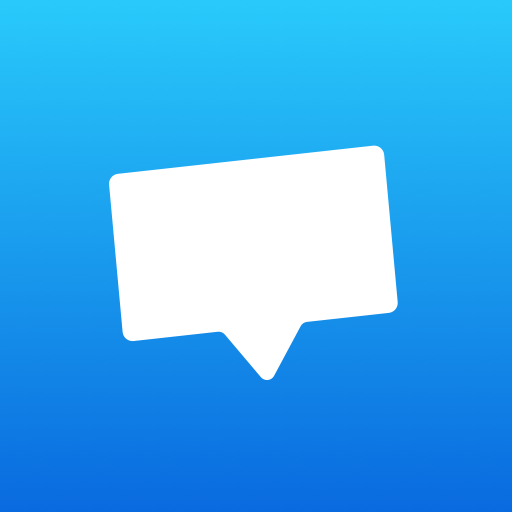
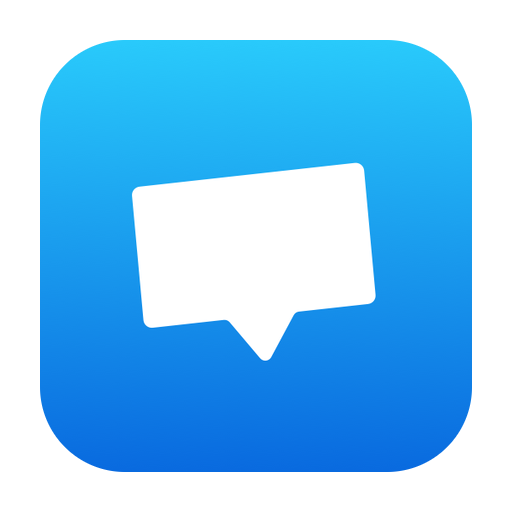
Release Crisp JALA 0.2.0 with setup workflow

diff --git a/crisp-jala/README.md b/crisp-jala/README.md
@@ -1,32 +1,37 @@
 # Crisp JALA
 
-Version 0.1.0. Skills for JALA customer support through the Crisp REST API,
+Version 0.2.0. Skills for JALA customer support through the Crisp REST API,
 packaged for Codex and Claude Code.
 
 ## Included skills
 
 - `crisp-jala`: JALA workspace routing and JALA-only saved credentials.
+- `crisp-jala-setup`: first-time connection setup and recovery for missing or
+  expired sessions.
 - `crisp`: API workflow and references for conversations, messages, people,
   visitors, workspace settings, campaign templates, and analytics.
 
-Both skills are bundled; no separate base-skill installation is needed. For
-JALA work, invoke `crisp-jala` first. Example: “Use Crisp JALA to find unresolved
-customer conversations and summarize them.” Sending and changing data follows
-the user's authorized scope; reading conversations does not authorize replies.
+All three skills are bundled; no separate base-skill installation is needed.
+For JALA operations, invoke `crisp-jala`; it routes missing or expired sessions
+through `crisp-jala-setup`. Example: “Use Crisp JALA to find unresolved customer
+conversations and summarize them.” Sending and changing data follows the user's
+authorized scope; reading conversations does not authorize replies.
 
 ## Requirements and setup
 
-The primary setup flow is **open Crisp → user logs in → capture the user-session
-credential from an inbox request → verify → save to the OS secret store**.
+The setup flow is **open Crisp → user logs in → capture a supported user-session
+request → verify → save to the OS secret store**.
 Users do not generate a workspace API token, fill in a token form, or set env.
 
-Ask “Set up Crisp JALA.” The agent opens the JALA inbox, lets you complete login
-and MFA, and observes the actual GET request for the conversation list. It transfers
-that request's Basic authentication header directly to the helper through stdin,
-without displaying the token pair or writing it to a file. The helper verifies
-read access, then saves the user credential and workspace ID in macOS Keychain,
-Windows Credential Manager, or Linux Secret Service. Subsequent requests load the
-saved connection automatically.
+Ask “Set up Crisp JALA.” The agent uses the in-app browser by default when it can
+inspect network requests, and honors your browser choice or exclusions. After
+you complete login and MFA, it captures the conversation-list GET request. If
+the inbox does not emit that request, it can use a message-list request only from
+a conversation clearly marked as already read. It transfers the Basic header
+directly to the helper through stdin, without displaying the token pair or
+writing it to a file. The helper verifies read access, then saves the user
+credential and workspace ID in macOS Keychain, Windows Credential Manager, or
+Linux Secret Service. Subsequent requests load the saved connection automatically.
 
 Requires Python 3.9+, shell execution, an available native secret store, and a
 browser tool with network inspection and private subprocess transfer. The plugin
@@ -41,7 +46,9 @@ revoked; repeat login capture to replace an invalid session. Saving a session do
 not convert it to a permanent workspace token.
 
 For helper/runtime commands and the capture procedure, see the
-[connection workflow](skills/crisp-jala/references/connection.md). After setup:
+[setup skill](skills/crisp-jala-setup/SKILL.md) and its
+[connection reference](skills/crisp-jala/references/connection.md). If the
+persistent runtime is absent, install it before checking `status`. After setup:
 
 ```bash
 <RUNTIME_PYTHON> <SKILL_DIR>/scripts/crisp_api.py status
@@ -84,8 +91,8 @@ with a read request returning 20 conversations. No customer messages were sent.
 
 ## Icon
 
-`assets/crisp-icon.png` is the unmodified 512px app logo from Crisp’s official
+`assets/crisp-icon.png` uses artwork from Crisp’s official
 [Brand Assets archive](https://storage.crisp.chat/public/documents/Brand%20Assets.zip),
-linked from the [Crisp website](https://crisp.chat/en/). The original square artwork
-includes padding and works on both light and dark surfaces. This plugin is
+linked from the [Crisp website](https://crisp.chat/en/). It has a transparent
+rounded-square margin sized to match the other plugin icons. This plugin is
 maintained by JALA; the icon identifies the integrated service.

diff --git a/crisp-jala/skills/crisp-jala-setup/SKILL.md b/crisp-jala/skills/crisp-jala-setup/SKILL.md
@@ -1,0 +1,57 @@
+---
+name: crisp-jala-setup
+description: Set up Crisp JALA, save its first browser session, explicitly replace a session, or recover a missing, expired, or invalid connection. Use this whenever a JALA operation has no working saved connection.
+---
+
+# Crisp JALA setup
+
+Use this skill for an explicit setup or replacement request, or when a JALA
+operation cannot continue because its saved connection is missing, expired, or
+confirmed invalid.
+For HTTP 403, check route and workspace permissions before replacing a session.
+It saves the logged-in user's session in the operating system's native secret
+store; it does not create a workspace API token.
+
+## Workflow
+
+1. **Resolve the helper.** Find `scripts/crisp_api.py` in the bundled `crisp-jala`
+   skill directory and read its [connection reference](../crisp-jala/references/connection.md).
+   Keep the helper path relative to the installed plugin, not a source checkout.
+2. **Prepare the runtime.** Reuse the persistent runtime if present. Otherwise run
+   `<HOST_PYTHON> <HELPER_PATH> install-runtime` (`python3` on macOS/Linux,
+   `python` on Windows) and use the Python path it returns. Run `status` only with
+   that runtime. If `status` reports a configured connection and replacement was
+   not requested, make one read-only inbox-list request. If it succeeds, finish
+   setup or resume the original task without recapturing the session. Capture a
+   new session only when the connection is missing, confirmed invalid, or the user
+   asked to replace it.
+3. **Open the right browser.** Reuse an authenticated Crisp tab when available.
+   Honor the user's browser choice and exclusions; when no preference is given,
+   prefer the in-app browser if it supports network inspection. If Crisp asks for
+   login, let the user enter their password and complete MFA.
+4. **Capture a supported request.** Observe a real GET request to the exact JALA
+   inbox. Prefer `/api/v1/website/bca9165d-d26a-4a8f-a8d5-5625fb1a3f2b/conversations/{page}`.
+   If the inbox does not issue that request, a message-list request may be used
+   only for a conversation the inbox clearly marks as already read. Do not open an
+   unread or uncertain conversation to create a request. If no supported request
+   is available, report that blocker and leave Crisp state untouched.
+5. **Import privately.** Send the request URL and Basic authorization header from
+   browser memory to `import-session` over stdin using the procedure in the
+   connection reference. The helper validates the exact origin, workspace, and
+   read access before saving. Keep credential values and conversation content out
+   of output, chat, screenshots, command arguments, and files.
+6. **Verify and resume.** Confirm `status` and make one read-only inbox-list
+   request. Report whether the connection is saved and the HTTP status; do not
+   include customer content. For setup-only requests, stop after verification.
+   If setup was needed for another task, resume that task with the saved session.
+
+Completion: `status` reports a saved native connection and a read-only JALA inbox
+request succeeds, or the exact browser, runtime, or secret-store blocker is
+reported.
+
+## Connection replacement
+
+When replacing a rejected or expired session, preserve the old saved connection
+until a newly captured session passes verification. The helper does this on
+import. Do not retry a write after an authentication failure; verify its state
+before continuing the original task.

diff --git a/crisp-jala/skills/crisp-jala/SKILL.md b/crisp-jala/skills/crisp-jala/SKILL.md
@@ -1,31 +1,27 @@
 ---
 name: crisp-jala
-description: Work with JALA Crisp conversations, messages, people profiles, visitors, and workspace data. Use for JALA Crisp setup or operations; prefer this skill over generic Crisp guidance for JALA targets.
+description: Use `crisp-jala-setup` for first-time setup, missing or expired sessions, or explicit session replacement. Use this skill for JALA Crisp operations and prefer it over generic Crisp guidance for JALA targets.
 ---
 
 # Crisp JALA
 
 Use the bundled `scripts/crisp_api.py` helper for JALA requests. It loads the
 saved connection from the operating system's secret store and fixes the API URL
-to `https://api.crisp.chat`. No environment variables are required. The JALA workspace is `bca9165d-d26a-4a8f-a8d5-5625fb1a3f2b`; verify that the
-observed inbox request targets this workspace before importing the session.
+to `https://api.crisp.chat`. No environment variables are required. The JALA
+workspace is `bca9165d-d26a-4a8f-a8d5-5625fb1a3f2b`; verify that the observed
+inbox request targets this workspace before importing a session.
 
-## Connection
+## Saved connection
 
-Before a first request or when setup, credential replacement, or authentication
-troubleshooting is needed, read [connection](references/connection.md). Resolve
-script paths from this installed skill directory, rather than assuming a checkout.
-Check `status`; if no connection exists, open Crisp and let the user log in.
-Capture the user's `Authorization: Basic` header from the browser's actual inbox
-or message-list request. Import it directly through `import-session` JSON stdin;
-the helper verifies API access and saves the decoded pair in the native secret
-store. The [connection workflow](references/connection.md) describes capture and
-transfer. Use the logged-in user session; do not ask for a workspace API token or
-send the user to token-generation settings. Keep credentials out of tool output,
-chat, screenshots, command arguments, and temporary files.
-
-For setup-only requests, finish after a verified connection is saved. Setup checks
-the workspace with a read request; it does not send messages or alter Crisp data.
+Resolve the helper and runtime from the installed plugin. If the persistent
+runtime is missing, follow `crisp-jala-setup` to install it before `status`. Reuse
+a configured connection. For first-time setup, missing or expired credentials,
+an explicit replacement, or a confirmed invalid session, follow
+`crisp-jala-setup`. After HTTP 403, check route and workspace permissions before
+replacing a session. The setup skill
+links to the secure capture and import procedure. Do not collect workspace API
+tokens or put credentials in tool output, chat, screenshots, command arguments,
+or files.
 
 ## Operations
 
@@ -42,6 +38,10 @@ The helper accepts a path **relative to the saved workspace**, such as
 <RUNTIME_PYTHON> <SKILL_DIR>/scripts/crisp_api.py request 'conversations/1?per_page=20'
 <RUNTIME_PYTHON> <SKILL_DIR>/scripts/crisp_api.py request 'conversation/EXACT_SESSION/messages'
 ```
+
+For a count of chats assigned to an operator, use the API recipe in
+[conversations](../crisp/references/conversations.md). Resolve the operator's
+`user_id` from the workspace operator list, then count every assigned page.
 
 For an authorized mutation, write the JSON payload to a local file and use
 `request RELATIVE_PATH --method POST|PUT|PATCH|DELETE --body PAYLOAD_FILE`.

diff --git a/crisp-jala/skills/crisp-jala/references/connection.md b/crisp-jala/skills/crisp-jala/references/connection.md
@@ -5,6 +5,10 @@ Setup uses the Crisp user session observed in an authenticated browser request.
 The user logs in themselves, including password, SSO, and MFA. No workspace-token
 creation, token-entry form, or manual environment variables are required.
 
+Honor the user's browser preference and exclusions. If no preference is given,
+prefer the in-app browser when it supports network inspection. If the user rules
+out the available browser, report that blocker instead of switching silently.
+
 Requires Python 3.9+, browser automation with network-request inspection, and
 native OS secret storage: macOS Keychain, Windows Credential Manager, or Linux
 Secret Service. This plugin supplies the helper and workflow, not a browser or a
@@ -15,13 +19,15 @@ do not expose the credential in tool output to bridge tools.
 ## Runtime and existing connection
 
 Resolve `<SKILL_DIR>` from this installed skill, and reuse its runtime if present.
-Otherwise run:
+If it is missing, run `install-runtime` with the host's Python 3.9+ before running
+`status`; do not run `status` with the system Python. Bootstrap using the host's
+Python command (`python3` on macOS/Linux, `python` on Windows):
 
 ```bash
-python3 <SKILL_DIR>/scripts/crisp_api.py install-runtime
+<HOST_PYTHON> <SKILL_DIR>/scripts/crisp_api.py install-runtime
 ```
 
-Use the Python path returned by that command for subsequent helper commands.
+Use the Python path returned by that command for all subsequent helper commands.
 It lives at `~/.config/crisp-jala/runtime/bin/python` on macOS/Linux or
 `~/.config/crisp-jala/runtime/Scripts/python.exe` on Windows. Runtime and saved
 secrets remain outside the plugin cache and survive plugin updates.
@@ -46,7 +52,10 @@ access, silently retry writes, or change the credential type to bypass an error.
    Select a **GET** request to the exact HTTPS host `app.crisp.chat` with path
    `/api/v1/website/bca9165d-d26a-4a8f-a8d5-5625fb1a3f2b/conversations/{page}`
    or `/api/v1/website/.../conversation/{session}/messages` for that workspace.
-   The inbox list is sufficient; opening a conversation can mark messages read.
+   Prefer the inbox list. If it emits no list request, use a message-list request
+   only after the inbox clearly marks that conversation as already read. Do not
+   open an unread or uncertain conversation to create a request; stop and report
+   the blocker if no safe request is available.
 4. Keep the selected request in browser-runtime memory. Read its `Authorization`
    header case-insensitively and require `Basic`. Print only route, method, header
    names, or authentication scheme when debugging. Never print header values,

diff --git a/crisp-jala/skills/crisp/references/conversations.md b/crisp-jala/skills/crisp/references/conversations.md
@@ -18,6 +18,30 @@ Inspect a single conversation:
 GET /v1/website/{website_id}/conversation/{session_id}
 ```
 
+## Count conversations assigned to an operator
+
+Resolve the operator's `user_id` from `GET /v1/website/{website_id}/operators/list`
+using the current user's email or another unique identity field. Do not use the
+display name alone when it could match multiple operators.
+
+List pages with the exact operator ID:
+
+```text
+GET /v1/website/{website_id}/conversations/{page_number}
+  ?per_page=50
+  &filter_assigned={user_id}
+```
+
+Read the response `data` array, add its length to the running count, and continue
+to the next page until a page contains fewer than 50 conversations. If a page has
+exactly 50, fetch the next page even when it may be empty. For open chats only,
+add `filter_not_resolved=1` and state that resolved conversations are excluded.
+Report the operator identity, filter, pages read, and count; conversation message
+history is not needed to count assignments.
+
+The [official conversation reference](https://docs.crisp.chat/references/rest-api/v1/index.html)
+defines `filter_assigned` as an operator user identifier and `per_page` as 20–50.
+
 Create a conversation only when the user has supplied the intended workspace and creation purpose:
 
 ```text

diff --git a/crisp-jala/skills/crisp/SKILL.md b/crisp-jala/skills/crisp/SKILL.md
@@ -22,7 +22,7 @@ Use for Crisp conversations, messages, people profiles, visitor inspection, oper
 
 ## Use Cases
 
-- **Inspect or operate conversations** — resolve the exact workspace and session, then load [conversations](references/conversations.md).
+- **Inspect, operate, or count assigned conversations** — resolve the exact workspace and target/operator, then load [conversations](references/conversations.md).
 - **Manage people or inspect visitors** — resolve the exact `people_id` or workspace, then load [people-and-visitors](references/people-and-visitors.md).
 - **Inspect workspace operations** — load [workspace-and-analytics](references/workspace-and-analytics.md) for operators, availability, inboxes, campaigns, and analytics.
 - **Authenticate or troubleshoot limits** — load [authentication](references/authentication.md).
